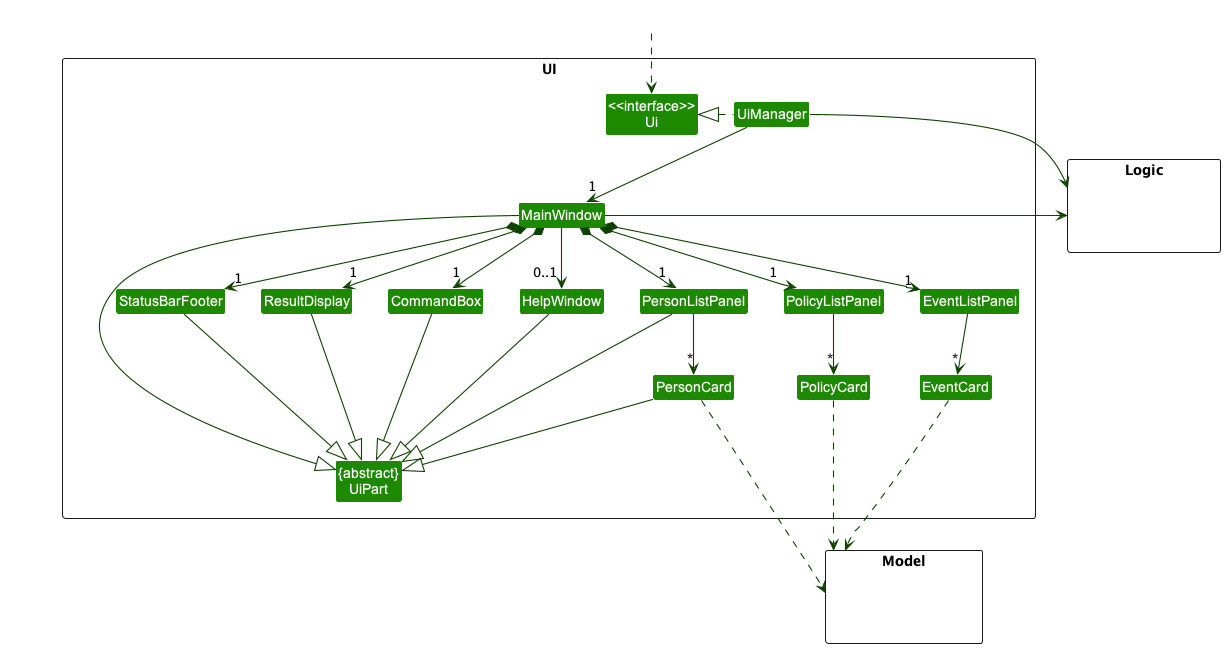
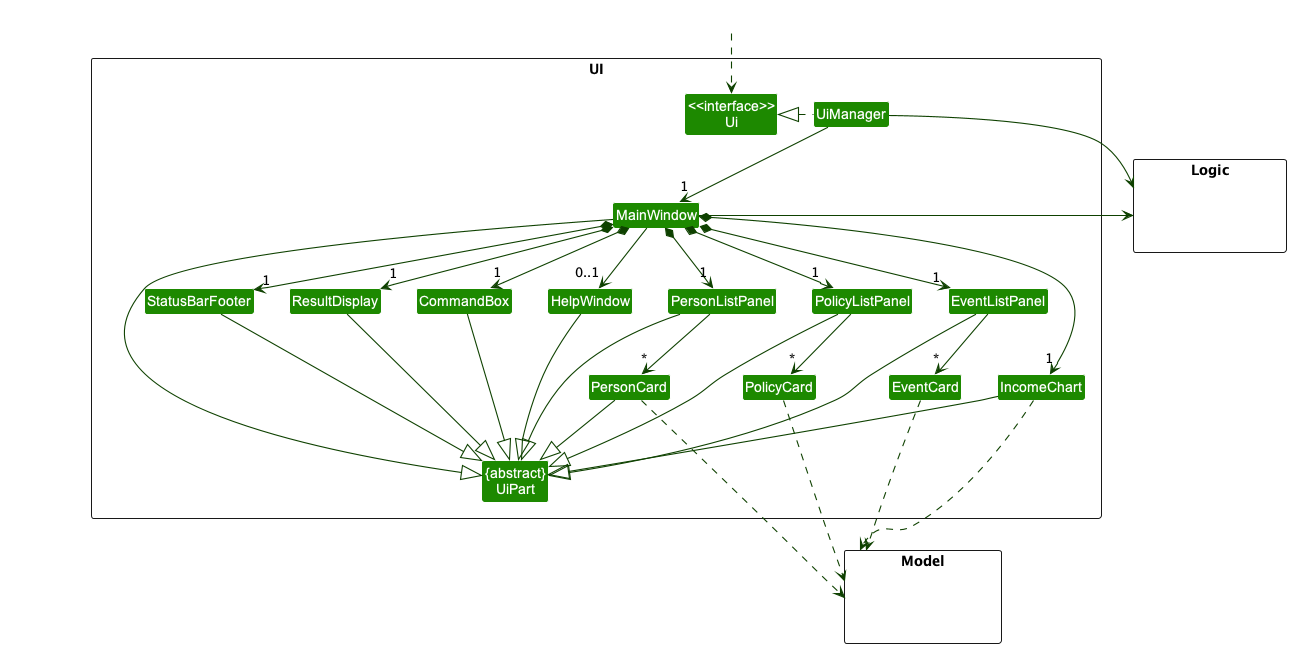
Update Developer Guide UI Component and Sort Feature Diagrams

diff --git a/docs/DeveloperGuide.md b/docs/DeveloperGuide.md
@@ -77,7 +77,9 @@ The UI consists of a `MainWindow` that is made up of parts e.g.`CommandBox`, `Re
 
 The `UI` component uses the JavaFx UI framework. The layout of these UI parts are defined in matching `.fxml` files that are in the `src/main/resources/view` folder. For example, the layout of the [`MainWindow`](https://github.com/AY2223S1-CS2103T-W13-2/tp/blob/master/src/main/java/longtimenosee/ui/MainWindow.java) is specified in [`MainWindow.fxml`](https://github.com/AY2223S1-CS2103T-W13-2/tp/blob/master/src/main/resources/view/MainWindow.fxml)
 
-Similarly, the layout of [`PersonListPanel`](https://github.com/AY2223S1-CS2103T-W13-2/tp/blob/master/src/main/java/longtimenosee/ui/PersonListPanel.java), [`PolicyListPanel`](https://github.com/AY2223S1-CS2103T-W13-2/tp/blob/master/src/main/java/longtimenosee/ui/PolicyListPanel.java) and [`EventListPanel`](https://github.com/AY2223S1-CS2103T-W13-2/tp/blob/master/src/main/java/longtimenosee/ui/EventListPanel.java) are all specified in their respective [`.fxml`](https://github.com/AY2223S1-CS2103T-W13-2/tp/tree/master/src/main/resources/view) files
+Similarly, the layout of [`PersonListPanel`](https://github.com/AY2223S1-CS2103T-W13-2/tp/blob/master/src/main/java/longtimenosee/ui/PersonListPanel.java), [`PolicyListPanel`](https://github.com/AY2223S1-CS2103T-W13-2/tp/blob/master/src/main/java/longtimenosee/ui/PolicyListPanel.java) and [`EventListPanel`](https://github.com/AY2223S1-CS2103T-W13-2/tp/blob/master/src/main/java/longtimenosee/ui/EventListPanel.java) are all specified in their respective [`.fxml`](https://github.com/AY2223S1-CS2103T-W13-2/tp/tree/master/src/main/resources/view) files.
+
+The layout of [`IncomeGraph`](https://github.com/AY2223S1-CS2103T-W13-2/tp/blob/master/src/main/java/longtimenosee/ui/IncomeGraph.java) is specified in [`LineGraph.fxml`](https://github.com/AY2223S1-CS2103T-W13-2/tp/blob/master/src/main/resources/view/LineGraph.fxml)
 
 The `UI` component,
 
@@ -176,11 +178,11 @@ Step 2. The user executes `sort income` to view his client list by ascending inc
 
 The following sequence diagram shows how the sort operation works: 
 
-insert sequence diagram here 
+![Sort Sequence Diagram](./images/SortSequenceDiagram.png)
 
 The following activity diagram summarizes what happens when a user issues a `sort` command:
 
-insert activity diagram here 
+![Sort Activity Diagram](./images/SortActivityDiagram.png)
 
 #### Design Considerations 
 
